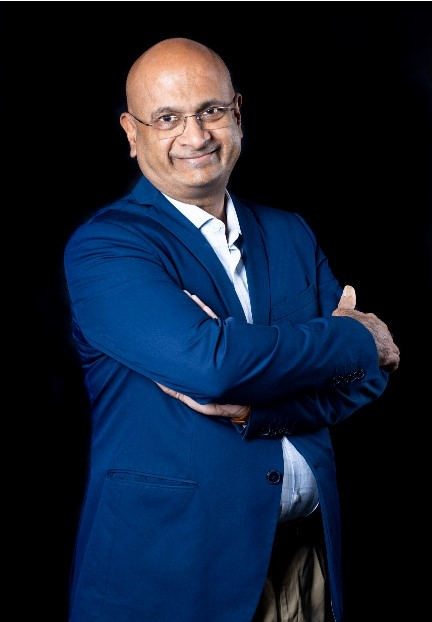
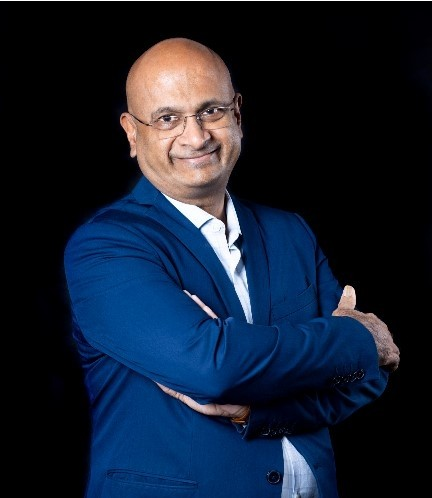
image croped

diff --git a/app/speakers/@popup/[id]/page.tsx b/app/speakers/@popup/[id]/page.tsx
@@ -75,10 +75,9 @@ export default function SpeakerPage() {
         <Image
           src={speakerDetails.photo}
           alt={speakerDetails.name}
-          width={288}
-          className="rounded-lg"
+          className="rounded-full size-64 object-cover"
         />
-        <div className="text-center md:text-left max-h-[600px] md:overflow-y-auto">
+        <div className="text-center md:text-left max-h-[600px] sm:max-w-[500px] md:max-w-[600px] md:overflow-y-auto">
           <h2 className="font-bold text-xl mb-2">{speakerDetails.name}</h2>
           <p className="text-primary mb-4">{speakerDetails.role}</p>
           <p>{speakerDetails.bio}</p>

diff --git a/app/speakers/event-speakers.tsx b/app/speakers/event-speakers.tsx
@@ -9,7 +9,7 @@ export default function EventSpeakers() {
   const router = useRouter();
 
   return (
-    <div className="grid grid-cols-1 sm:grid-cols-2 md:grid-cols-4 gap-6 justify-center items-center my-8 w-5/6 mx-auto">
+    <div className="grid grid-cols-1 sm:grid-cols-2 md:grid-cols-3 lg:grid-cols-4 gap-6 justify-center items-center my-8 w-5/6 mx-auto">
       {eventSpeakers.map((speaker) => (
         <AnimateUp key={speaker.id}>
           <div className="flex flex-col items-center transition-all duration-200 ease-in-out">
